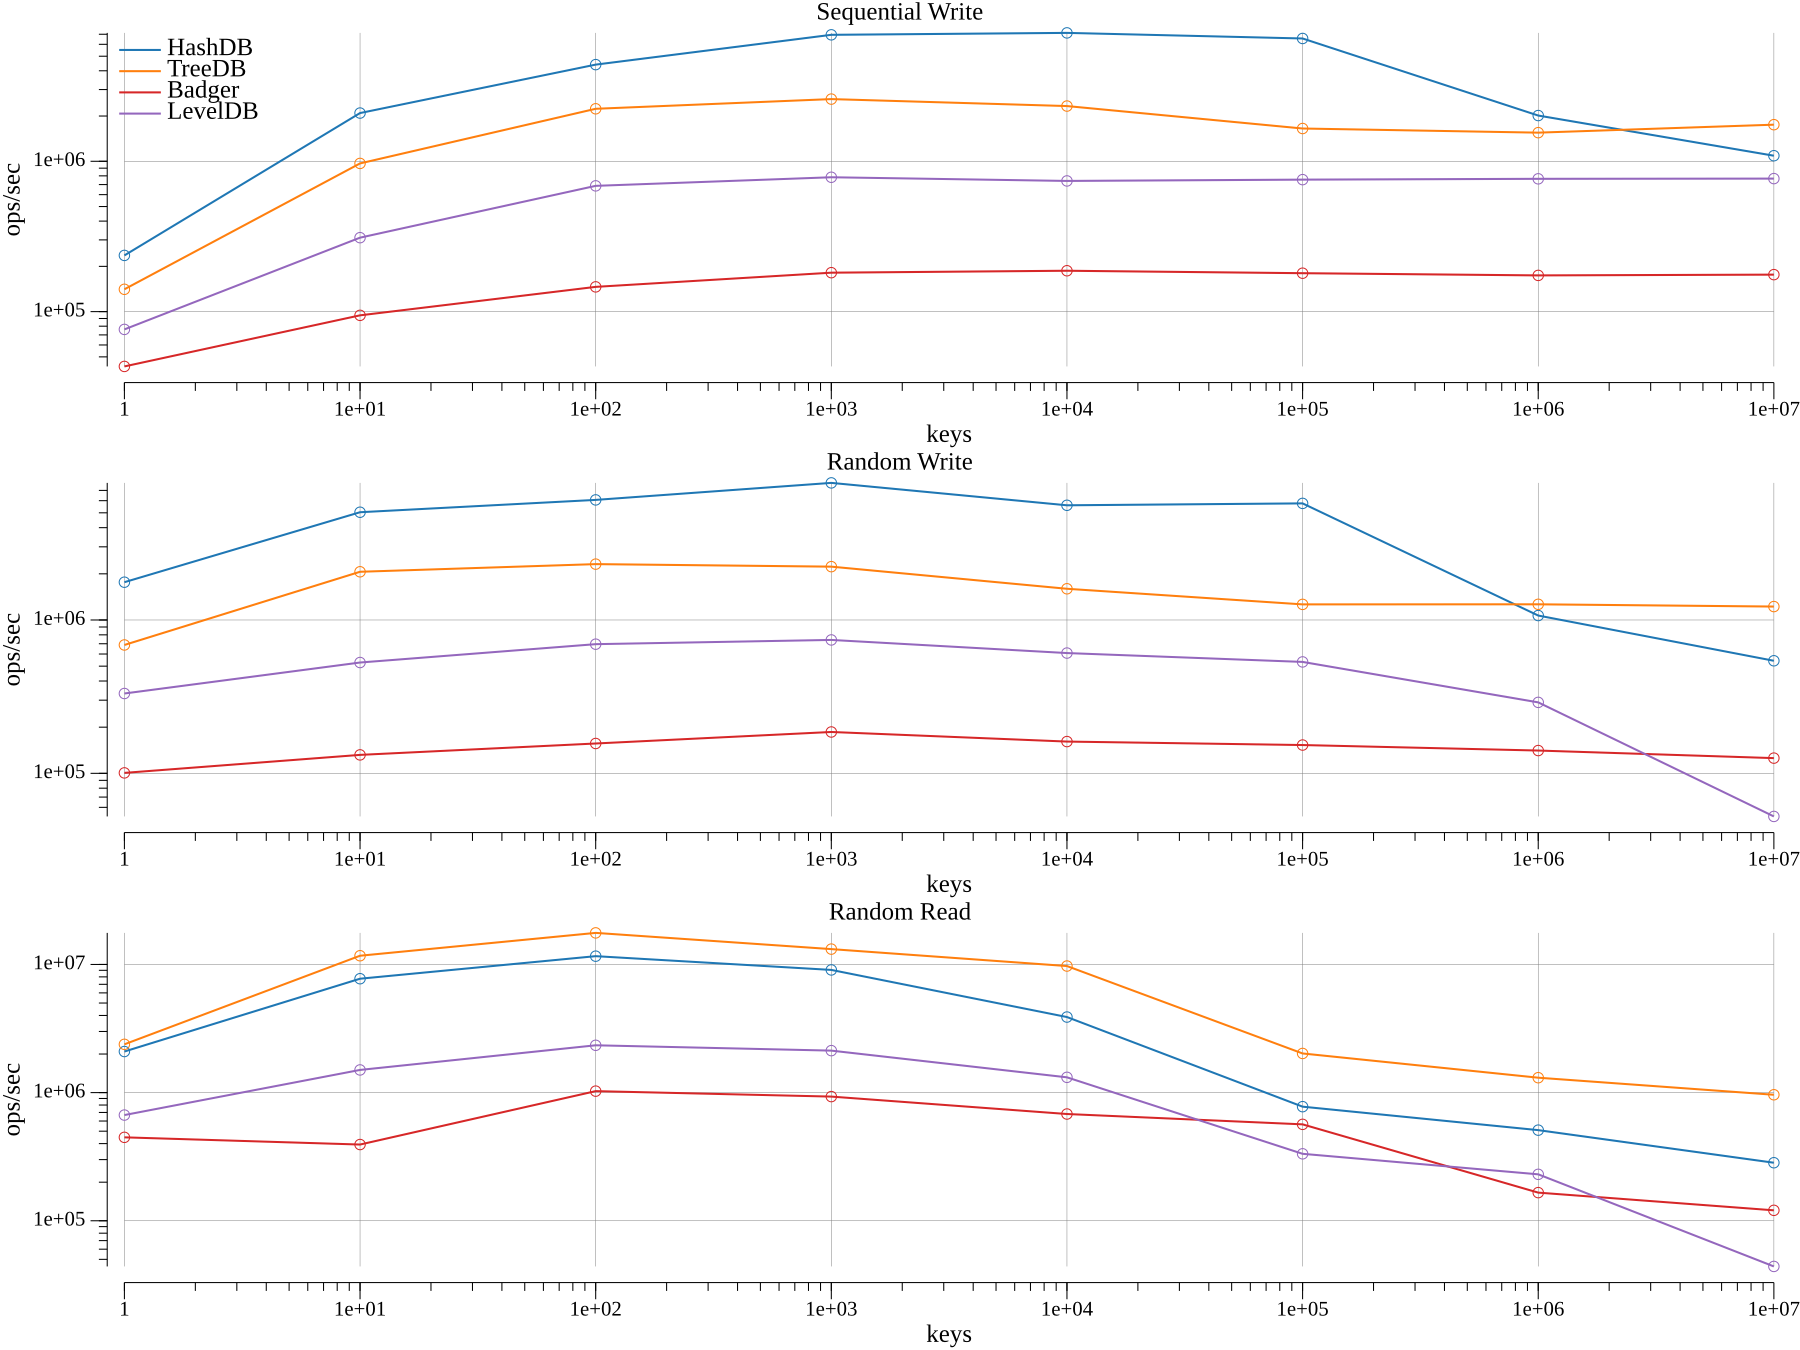
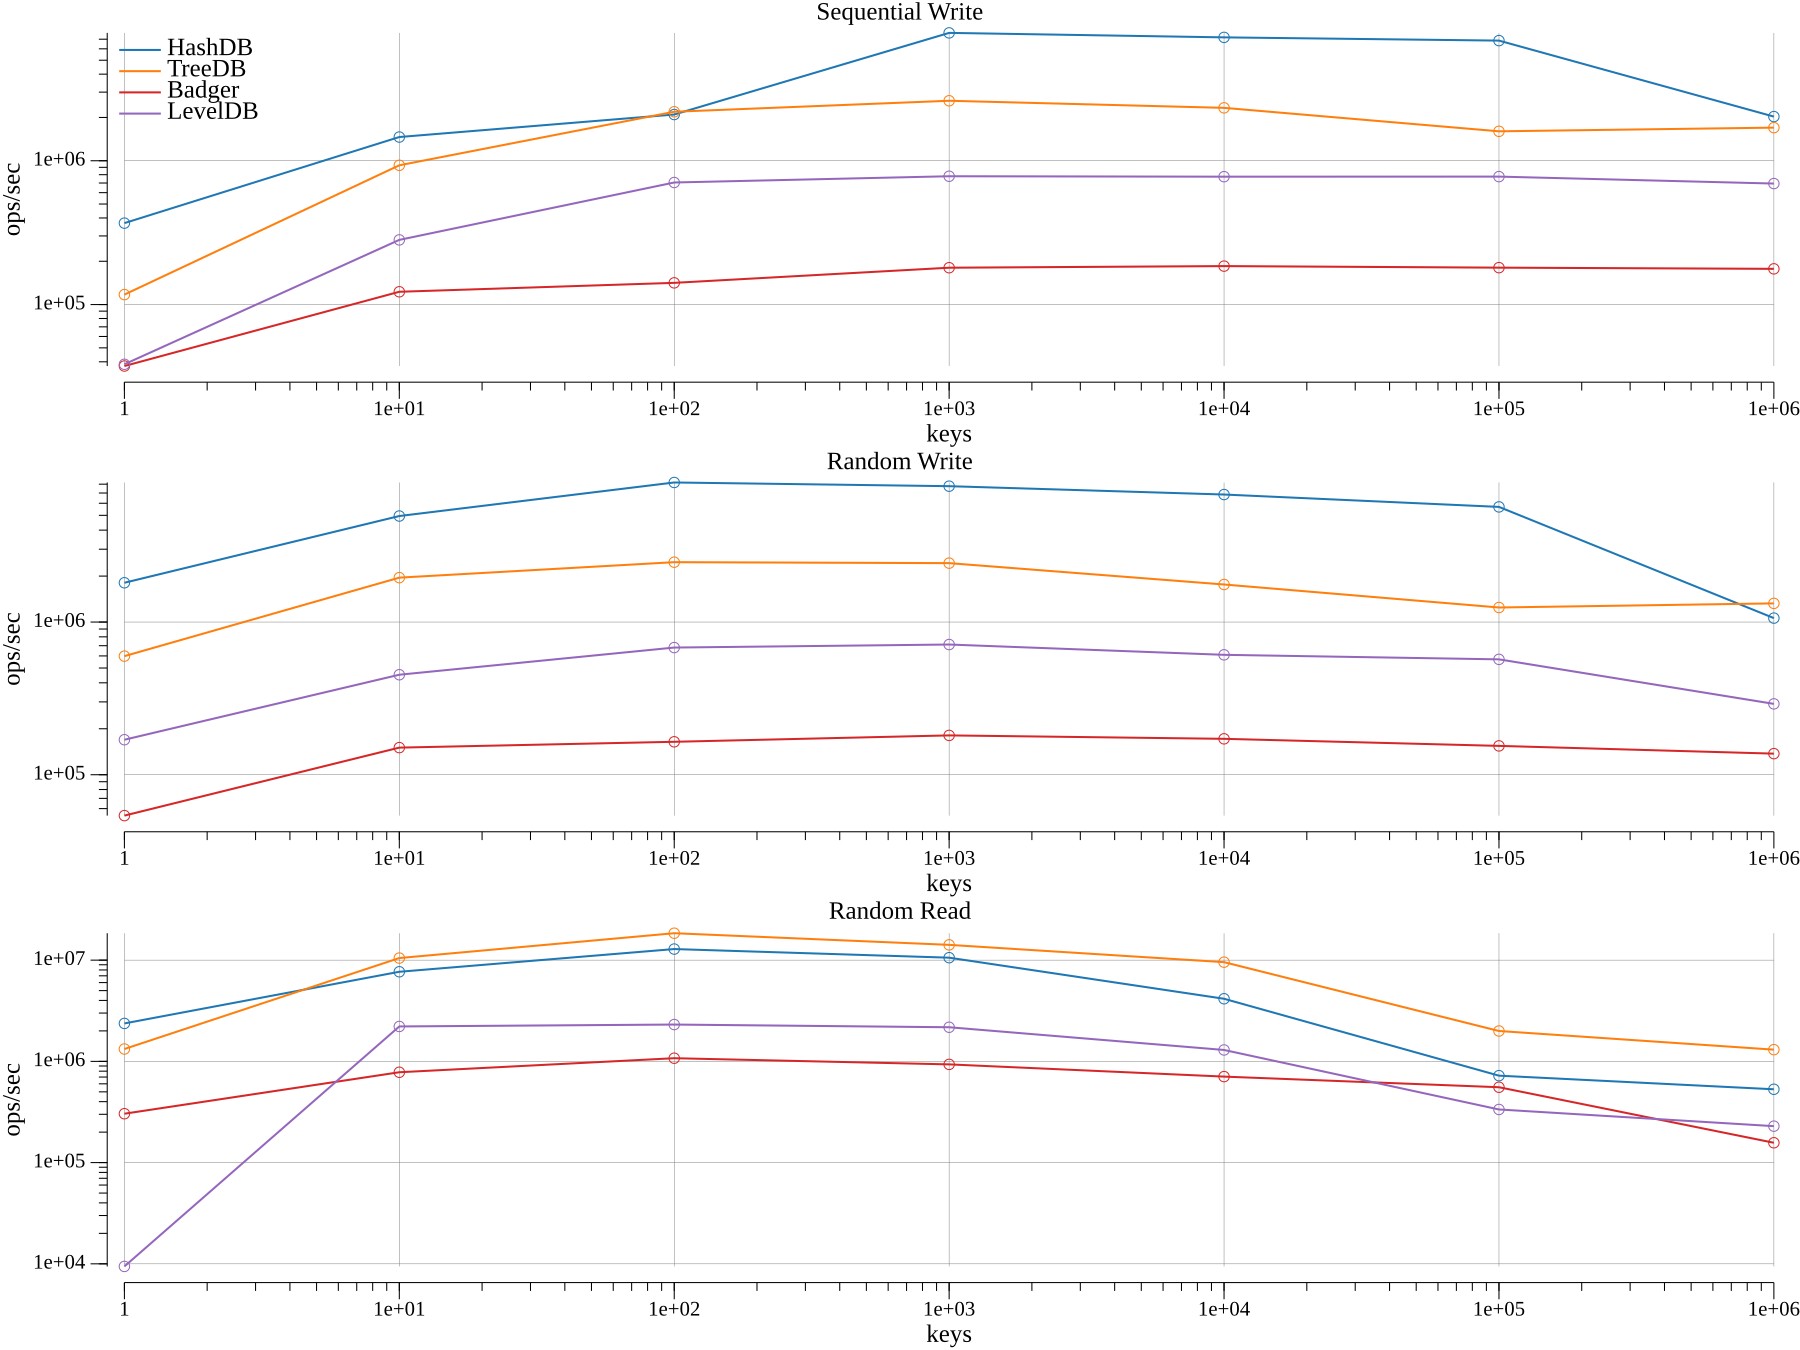
new bench

diff --git a/README.md b/README.md
@@ -48,11 +48,11 @@ More details:
 <!-- BENCHMARK_START -->
 _Generated by `go run ./cmd/unified_bench -suite readme -format markdown`._
 
-_Generated at:_ 2025-12-15T01:53:50Z
+_Generated at:_ 2025-12-15T04:02:05Z
 _Environment:_ linux/amd64 | Go go1.25.5 | CPUs 12 | RAM 31.2 GiB | CPU 11th Gen Intel(R) Core(TM) i5-11400F @ 2.60GHz | Model B560 DS3H AC-Y1
 _Seed:_ 1
 
-_Key counts:_ 1…10,000,000 (valsize=128, batchsize=1000, range-queries=200, range-span=100)
+_Key counts:_ 1…1,000,000 (valsize=128, batchsize=1000, range-queries=200, range-span=100)
 
 Notes:
 - Results depend on hardware and OS.
@@ -67,46 +67,43 @@ Notes:
 
 ### Point Ops (writes + gets)
 
-_Key counts:_ 1, 10, 100, 1,000, 10,000, 100,000, 1,000,000, 10,000,000
+_Key counts:_ 1, 10, 100, 1,000, 10,000, 100,000, 1,000,000
 
 #### Sequential Write
 
 | keys | HashDB | TreeDB | Badger | LevelDB |
 |---:|---:|---:|---:|---:|
-| 1 | **236,518** | 140,766 | 43,193 | 76,150 |
-| 10 | **2,093,364** | 967,867 | 94,452 | 310,395 |
-| 100 | **4,395,798** | 2,234,687 | 146,082 | 686,304 |
-| 1,000 | **6,937,651** | 2,592,514 | 181,558 | 782,902 |
-| 10,000 | **7,146,175** | 2,330,235 | 187,026 | 740,124 |
-| 100,000 | **6,560,059** | 1,651,833 | 180,098 | 754,963 |
-| 1,000,000 | **2,014,965** | 1,550,381 | 174,157 | 764,416 |
-| 10,000,000 | 1,089,159 | **1,751,893** | 176,207 | 767,026 |
+| 1 | **368,324** | 117,275 | 37,380 | 38,435 |
+| 10 | **1,461,775** | 929,714 | 122,704 | 281,635 |
+| 100 | 2,095,601 | **2,190,389** | 141,565 | 705,801 |
+| 1,000 | **7,744,314** | 2,612,501 | 180,368 | 780,132 |
+| 10,000 | **7,207,851** | 2,332,159 | 185,079 | 774,765 |
+| 100,000 | **6,844,308** | 1,601,799 | 180,562 | 775,682 |
+| 1,000,000 | **2,027,810** | 1,698,852 | 177,149 | 693,973 |
 
 #### Random Write
 
 | keys | HashDB | TreeDB | Badger | LevelDB |
 |---:|---:|---:|---:|---:|
-| 1 | **1,763,668** | 687,285 | 100,654 | 331,565 |
-| 10 | **5,042,864** | 2,062,706 | 131,919 | 527,983 |
-| 100 | **6,069,066** | 2,313,690 | 156,522 | 695,444 |
-| 1,000 | **7,835,271** | 2,227,658 | 186,064 | 741,171 |
-| 10,000 | **5,597,534** | 1,597,826 | 161,102 | 608,577 |
-| 100,000 | **5,759,402** | 1,264,022 | 152,935 | 532,780 |
-| 1,000,000 | 1,068,968 | **1,265,520** | 140,782 | 290,225 |
-| 10,000,000 | 542,026 | **1,223,304** | 125,663 | 52,353 |
+| 1 | **1,808,318** | 598,086 | 53,978 | 169,520 |
+| 10 | **4,948,046** | 1,953,507 | 150,516 | 451,773 |
+| 100 | **8,205,465** | 2,466,639 | 164,318 | 680,629 |
+| 1,000 | **7,759,457** | 2,431,540 | 180,942 | 712,461 |
+| 10,000 | **6,841,794** | 1,761,658 | 171,862 | 609,993 |
+| 100,000 | **5,677,612** | 1,245,355 | 154,484 | 569,674 |
+| 1,000,000 | 1,061,288 | **1,325,085** | 137,461 | 291,125 |
 
 #### Random Read
 
 | keys | HashDB | TreeDB | Badger | LevelDB |
 |---:|---:|---:|---:|---:|
-| 1 | 2,092,050 | **2,380,952** | 447,628 | 668,003 |
-| 10 | 7,739,938 | **11,695,906** | 393,329 | 1,502,630 |
-| 100 | 11,603,620 | **17,630,465** | 1,026,842 | 2,339,674 |
-| 1,000 | 9,063,554 | **13,176,099** | 930,993 | 2,126,040 |
-| 10,000 | 3,886,736 | **9,719,155** | 680,662 | 1,315,836 |
-| 100,000 | 776,732 | **2,020,464** | 565,312 | 332,953 |
-| 1,000,000 | 509,428 | **1,306,959** | 165,806 | 230,327 |
-| 10,000,000 | 283,664 | **962,027** | 120,607 | 44,019 |
+| 1 | **2,369,668** | 1,324,503 | 303,951 | 9,425 |
+| 10 | 7,674,597 | **10,482,180** | 780,640 | 2,212,389 |
+| 100 | 12,865,046 | **18,446,781** | 1,074,356 | 2,310,216 |
+| 1,000 | 10,573,283 | **14,156,486** | 933,687 | 2,172,855 |
+| 10,000 | 4,154,006 | **9,551,153** | 707,061 | 1,296,001 |
+| 100,000 | 722,341 | **1,995,272** | 555,251 | 334,842 |
+| 1,000,000 | 530,050 | **1,305,166** | 156,996 | 229,047 |
 
 
 ### TreeDBBackend baseline (point ops)
@@ -115,52 +112,49 @@ _Key count:_ 1
 
 | Test | TreeDBBackend |
 |---|---:|
-| Sequential Write | 98,990 |
-| Random Write | 234,907 |
-| Random Read | 442,087 |
+| Sequential Write | 102,522 |
+| Random Write | 287,109 |
+| Random Read | 506,842 |
 
 ### Batch + Scans
 
-_Key counts:_ 1, 10, 100, 1,000, 10,000, 100,000, 1,000,000, 10,000,000
+_Key counts:_ 1, 10, 100, 1,000, 10,000, 100,000, 1,000,000
 
 #### Batch Write
 
 | keys | TreeDB | TreeDBBackend | Badger | LevelDB |
 |---:|---:|---:|---:|---:|
-| 1 | 55,835 | 4,120 | 2,796 | **84,417** |
-| 10 | **952,290** | 569,638 | 246,305 | 436,643 |
-| 100 | 1,676,193 | **2,538,007** | 429,479 | 2,309,042 |
-| 1,000 | 2,209,398 | 2,524,902 | 1,569,088 | **2,920,689** |
-| 10,000 | 1,961,574 | 1,862,558 | 734,944 | **3,095,348** |
-| 100,000 | 1,593,143 | **1,712,372** | 1,035,616 | 1,670,971 |
-| 1,000,000 | 1,185,621 | **2,699,995** | 785,725 | 727,187 |
-| 10,000,000 | 2,634,954 | **2,677,340** | 1,196,140 | 981,498 |
+| 1 | 10,222 | 33,139 | 5,195 | **65,759** |
+| 10 | **689,132** | 571,494 | 283,938 | 449,216 |
+| 100 | 1,342,156 | **2,228,909** | 901,746 | 1,878,075 |
+| 1,000 | 1,603,404 | 2,261,497 | 1,615,820 | **3,256,024** |
+| 10,000 | 2,596,333 | 2,752,806 | 1,554,413 | **2,884,334** |
+| 100,000 | **2,299,100** | 2,056,653 | 1,564,582 | 2,025,739 |
+| 1,000,000 | 2,647,991 | **2,820,737** | 1,412,125 | 1,055,874 |
 
 #### Full Scan
 
 | keys | TreeDB | TreeDBBackend | Badger | LevelDB |
 |---:|---:|---:|---:|---:|
-| 1 | 235,349 | **246,792** | 152,999 | 200,884 |
-| 10 | 320,718 | **2,100,840** | 160,927 | 1,800,180 |
-| 100 | 7,125,155 | **11,582,117** | 140,469 | 9,129,085 |
-| 1,000 | 13,068,281 | **14,773,013** | 125,628 | 12,802,458 |
-| 10,000 | 13,390,100 | 15,511,668 | 275,710 | **17,072,188** |
-| 100,000 | 13,338,735 | **14,736,617** | 1,117,793 | 8,170,648 |
-| 1,000,000 | 13,880,422 | **14,764,684** | 1,711,072 | 6,117,082 |
-| 10,000,000 | 13,551,605 | **15,024,842** | 1,806,149 | 6,219,001 |
+| 1 | 223,164 | **243,546** | 104,734 | 186,047 |
+| 10 | 284,981 | 1,267,588 | 149,723 | **1,682,935** |
+| 100 | **6,614,264** | 6,538,939 | 130,685 | 4,811,162 |
+| 1,000 | 13,901,641 | 13,738,340 | 118,357 | **15,964,750** |
+| 10,000 | 10,687,755 | 15,018,307 | 396,416 | **17,078,457** |
+| 100,000 | 13,857,584 | **15,382,765** | 1,058,492 | 6,821,113 |
+| 1,000,000 | 13,763,284 | **14,377,607** | 1,772,230 | 6,369,402 |
 
 #### Prefix Scan
 
 | keys | TreeDB | TreeDBBackend | Badger | LevelDB |
 |---:|---:|---:|---:|---:|
-| 1 | 1,650,219 | **2,828,414** | 654,982 | 1,165,528 |
-| 10 | 2,610,148 | **14,030,657** | 685,331 | 4,148,243 |
-| 100 | 17,993,745 | **24,136,920** | 697,455 | 12,118,761 |
-| 1,000 | 19,367,083 | **23,093,598** | 83,765 | 13,497,889 |
-| 10,000 | 19,305,498 | **23,989,345** | 23,953 | 12,676,504 |
-| 100,000 | 16,854,672 | **20,658,782** | 3,988 | 7,529,177 |
-| 1,000,000 | 17,067,646 | **20,656,221** | 1,832 | 3,747,276 |
-| 10,000,000 | 16,059,763 | **19,573,052** | 1,670 | 2,689,726 |
+| 1 | **2,613,662** | 2,587,389 | 699,817 | 959,016 |
+| 10 | 2,007,871 | **13,568,613** | 616,390 | 4,677,295 |
+| 100 | 14,378,118 | **22,332,211** | 616,781 | 9,420,145 |
+| 1,000 | 20,991,015 | **22,045,940** | 84,439 | 13,384,007 |
+| 10,000 | 16,509,488 | **21,934,802** | 23,566 | 11,041,173 |
+| 100,000 | 17,769,114 | **21,992,964** | 3,493 | 5,974,017 |
+| 1,000,000 | 16,966,520 | **20,903,979** | 1,898 | 3,760,930 |
 
 
 ### Quick takeaways
